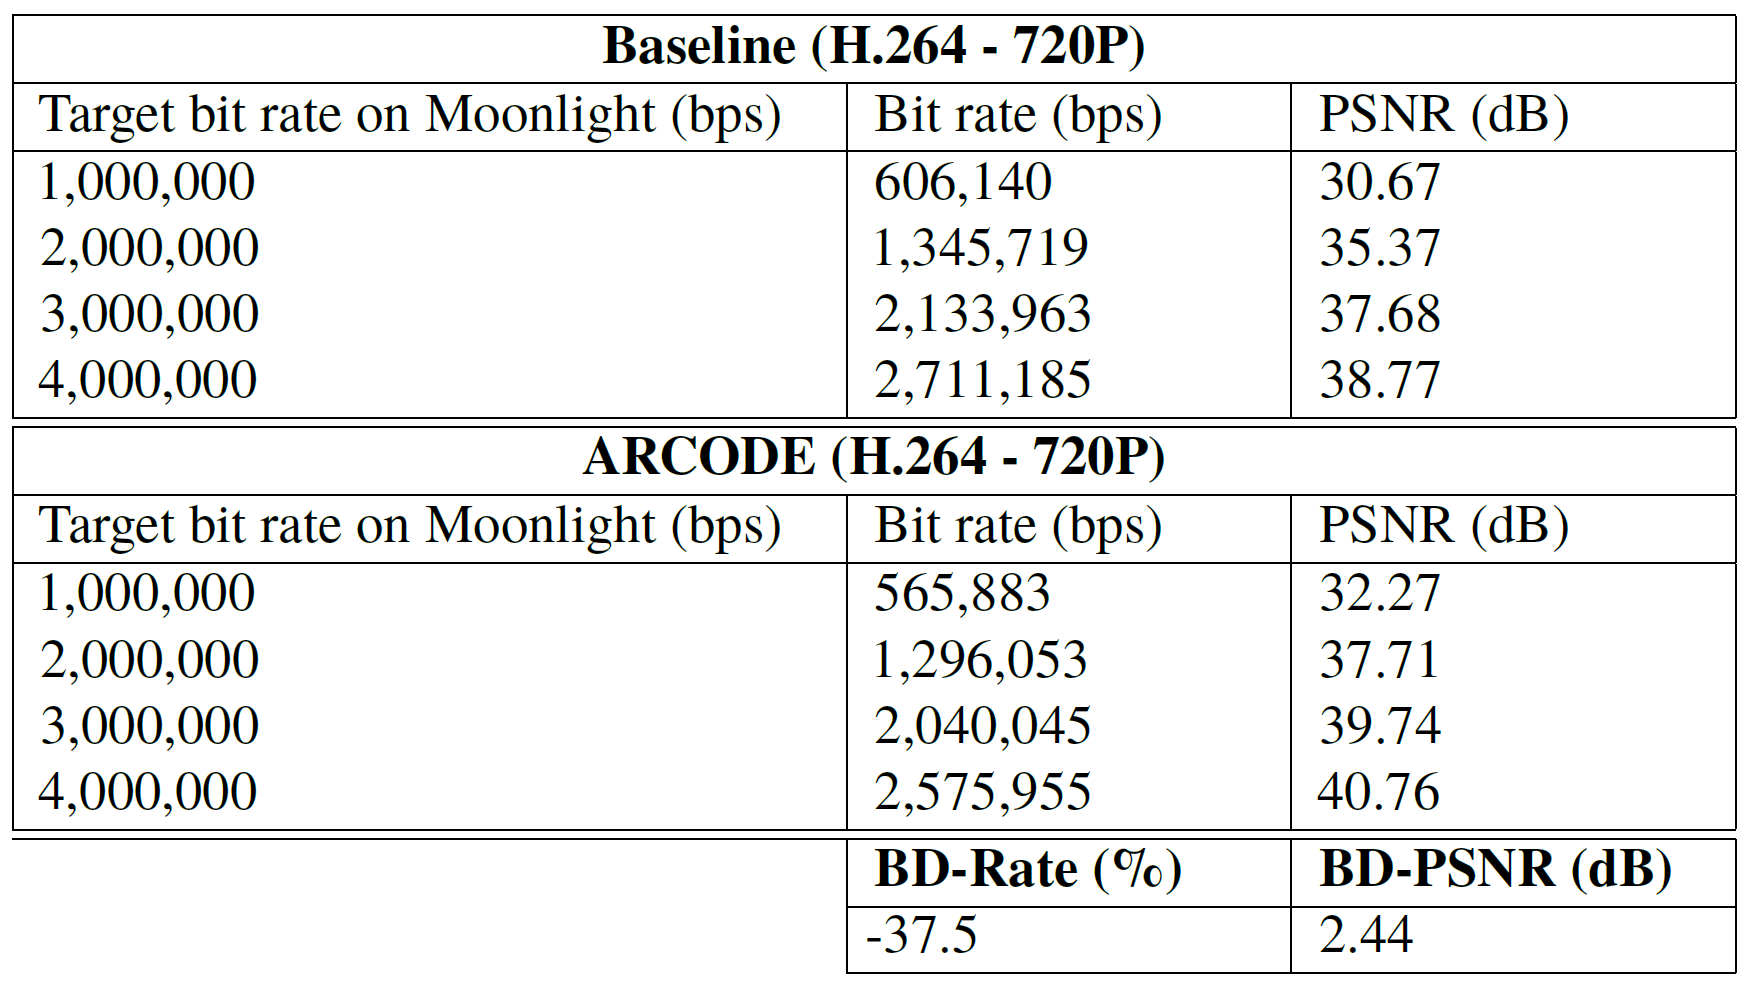
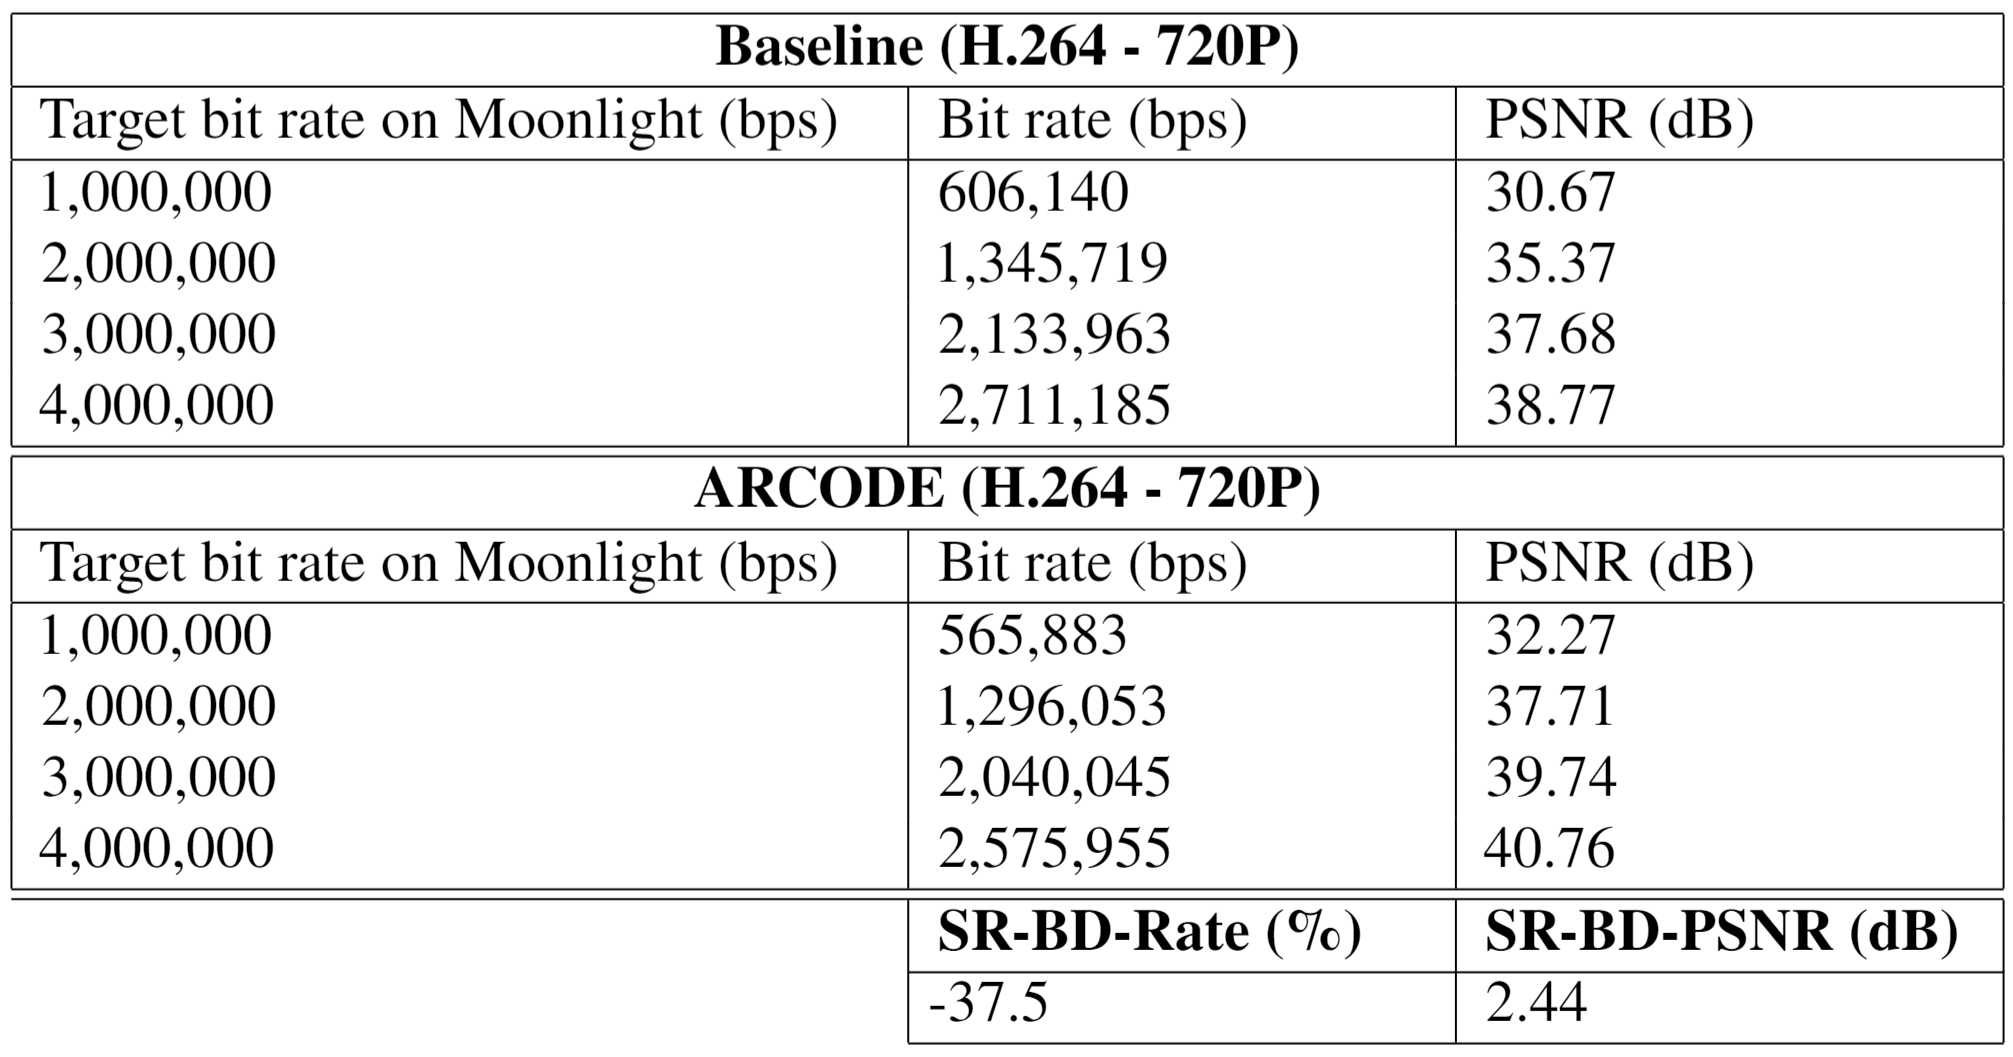
tables are added with the correct model evaluation metric names

Changed region(s): [[0.0, 0.0, 1.0, 0.999]]

diff --git a/layouts/partials/images.html b/layouts/partials/images.html
@@ -28,15 +28,6 @@
       </div>
       <div class="polaroid">
         <div class="text-container">
-          <h2>First scenario - Comparison of the image quality of the content generated in baseline with the content generated in ARCODE when the client entity is idle in the scene without any camera movement in the scene (H265 - 1080P - 2 Mbps)</h2>
-        </div>
-        <img src="/img/in-game-images/H265-Baseline-1080-2.png">
-        <h3><center>Baseline</center></h3>
-        <img src="/img/in-game-images/H265-ARCODE-1080-2.png">
-        <h3><center>ARCODE</center></h3>
-      </div>
-      <div class="polaroid">
-        <div class="text-container">
           <h2>First scenario - Comparison of the image quality of the content generated in baseline with the content generated in ARCODE when the client entity is idle in the scene without any camera movement in the scene (H265 - 720P - 1 Mbps)</h2>
         </div>
         <img src="/img/in-game-images/H265-Baseline-720-1.png">
@@ -55,38 +46,11 @@
       </div>
       <div class="polaroid">
         <div class="text-container">
-          <h2>First scenario - Comparison of the image quality of the content generated in baseline with the content generated in ARCODE when the client entity is moving in the scene with camera following its position (H264 - 1080P - 4 Mbps)</h2>
-        </div>
-        <img src="/img/in-game-images/CameraTranslation-H264-Baseline-1080-4.png">
-        <h3><center>Baseline</center></h3>
-        <img src="/img/in-game-images/CameraTranslation-H264-ARCODE-1080-4.png">
-        <h3><center>ARCODE</center></h3>
-      </div>
-      <div class="polaroid">
-        <div class="text-container">
           <h2>Boss fight scenario - Comparison of the image quality of the content generated in baseline with the content generated in ARCODE when the client entity is idle in the scene (H264 - 1080P - 4 Mbps)</h2>
         </div>
         <img src="/img/in-game-images/bossFight-H264-Baseline-1080-4.png">
         <h3><center>Baseline</center></h3>
         <img src="/img/in-game-images/bossFight-H264-ARCODE-1080-4.png">
-        <h3><center>ARCODE</center></h3>
-      </div>
-      <div class="polaroid">
-        <div class="text-container">
-          <h2>Sensitivity test - Comparison of the image quality of the content generated in baseline with the content generated in ARCODE when the client entity is idle in the scene, and NPCs are moving in the scene without using their skills (H264 - 1080P - 2 Mbps)</h2>
-        </div>
-        <img src="/img/in-game-images/relax-H264-Baseline-1080-2.png">
-        <h3><center>Baseline</center></h3>
-        <img src="/img/in-game-images/relax-H264-ARCODE-1080-2.png">
-        <h3><center>ARCODE</center></h3>
-      </div>
-      <div class="polaroid">
-        <div class="text-container">
-          <h2>Sensitivity test - Comparison of the image quality of the content generated in baseline with the content generated in ARCODE when the client entity is idle in the scene, and NPCs are continuously using their skills (H264 - 1080P - 2 Mbps)</h2>
-        </div>
-        <img src="/img/in-game-images/intense-H264-Baseline-1080-4.png">
-        <h3><center>Baseline</center></h3>
-        <img src="/img/in-game-images/intense-H264-ARCODE-1080-4.png">
         <h3><center>ARCODE</center></h3>
       </div>
     </div>
